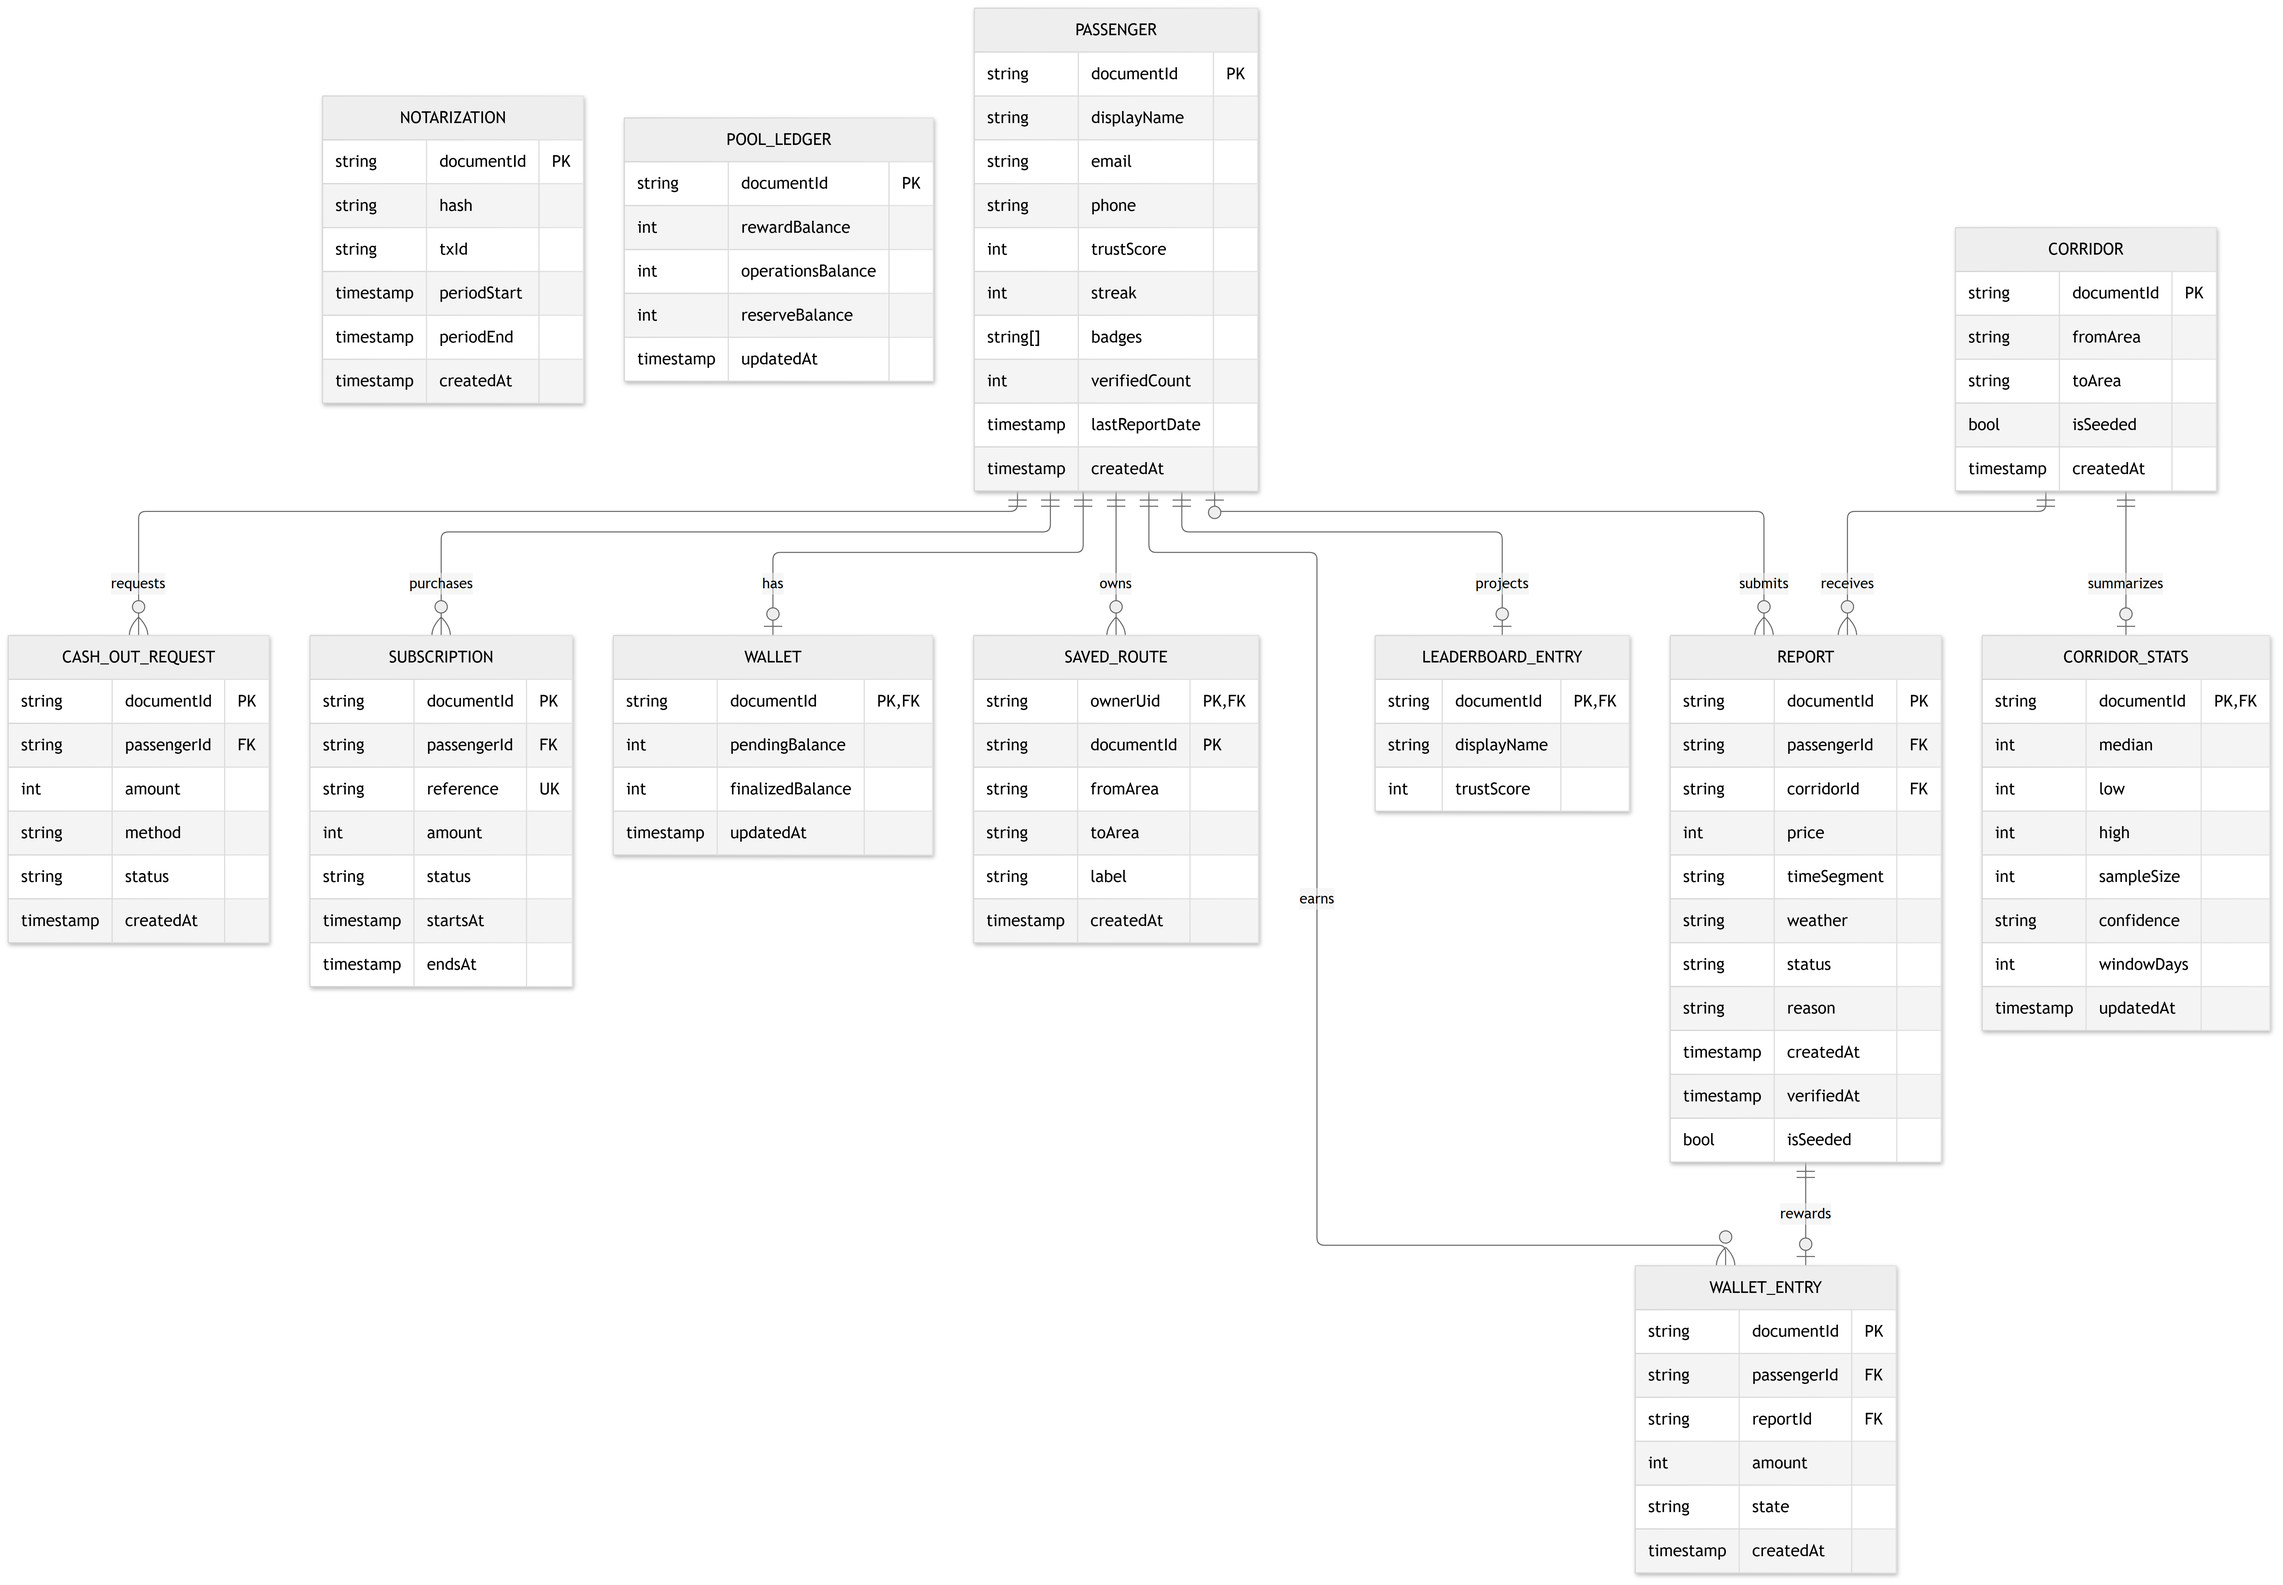
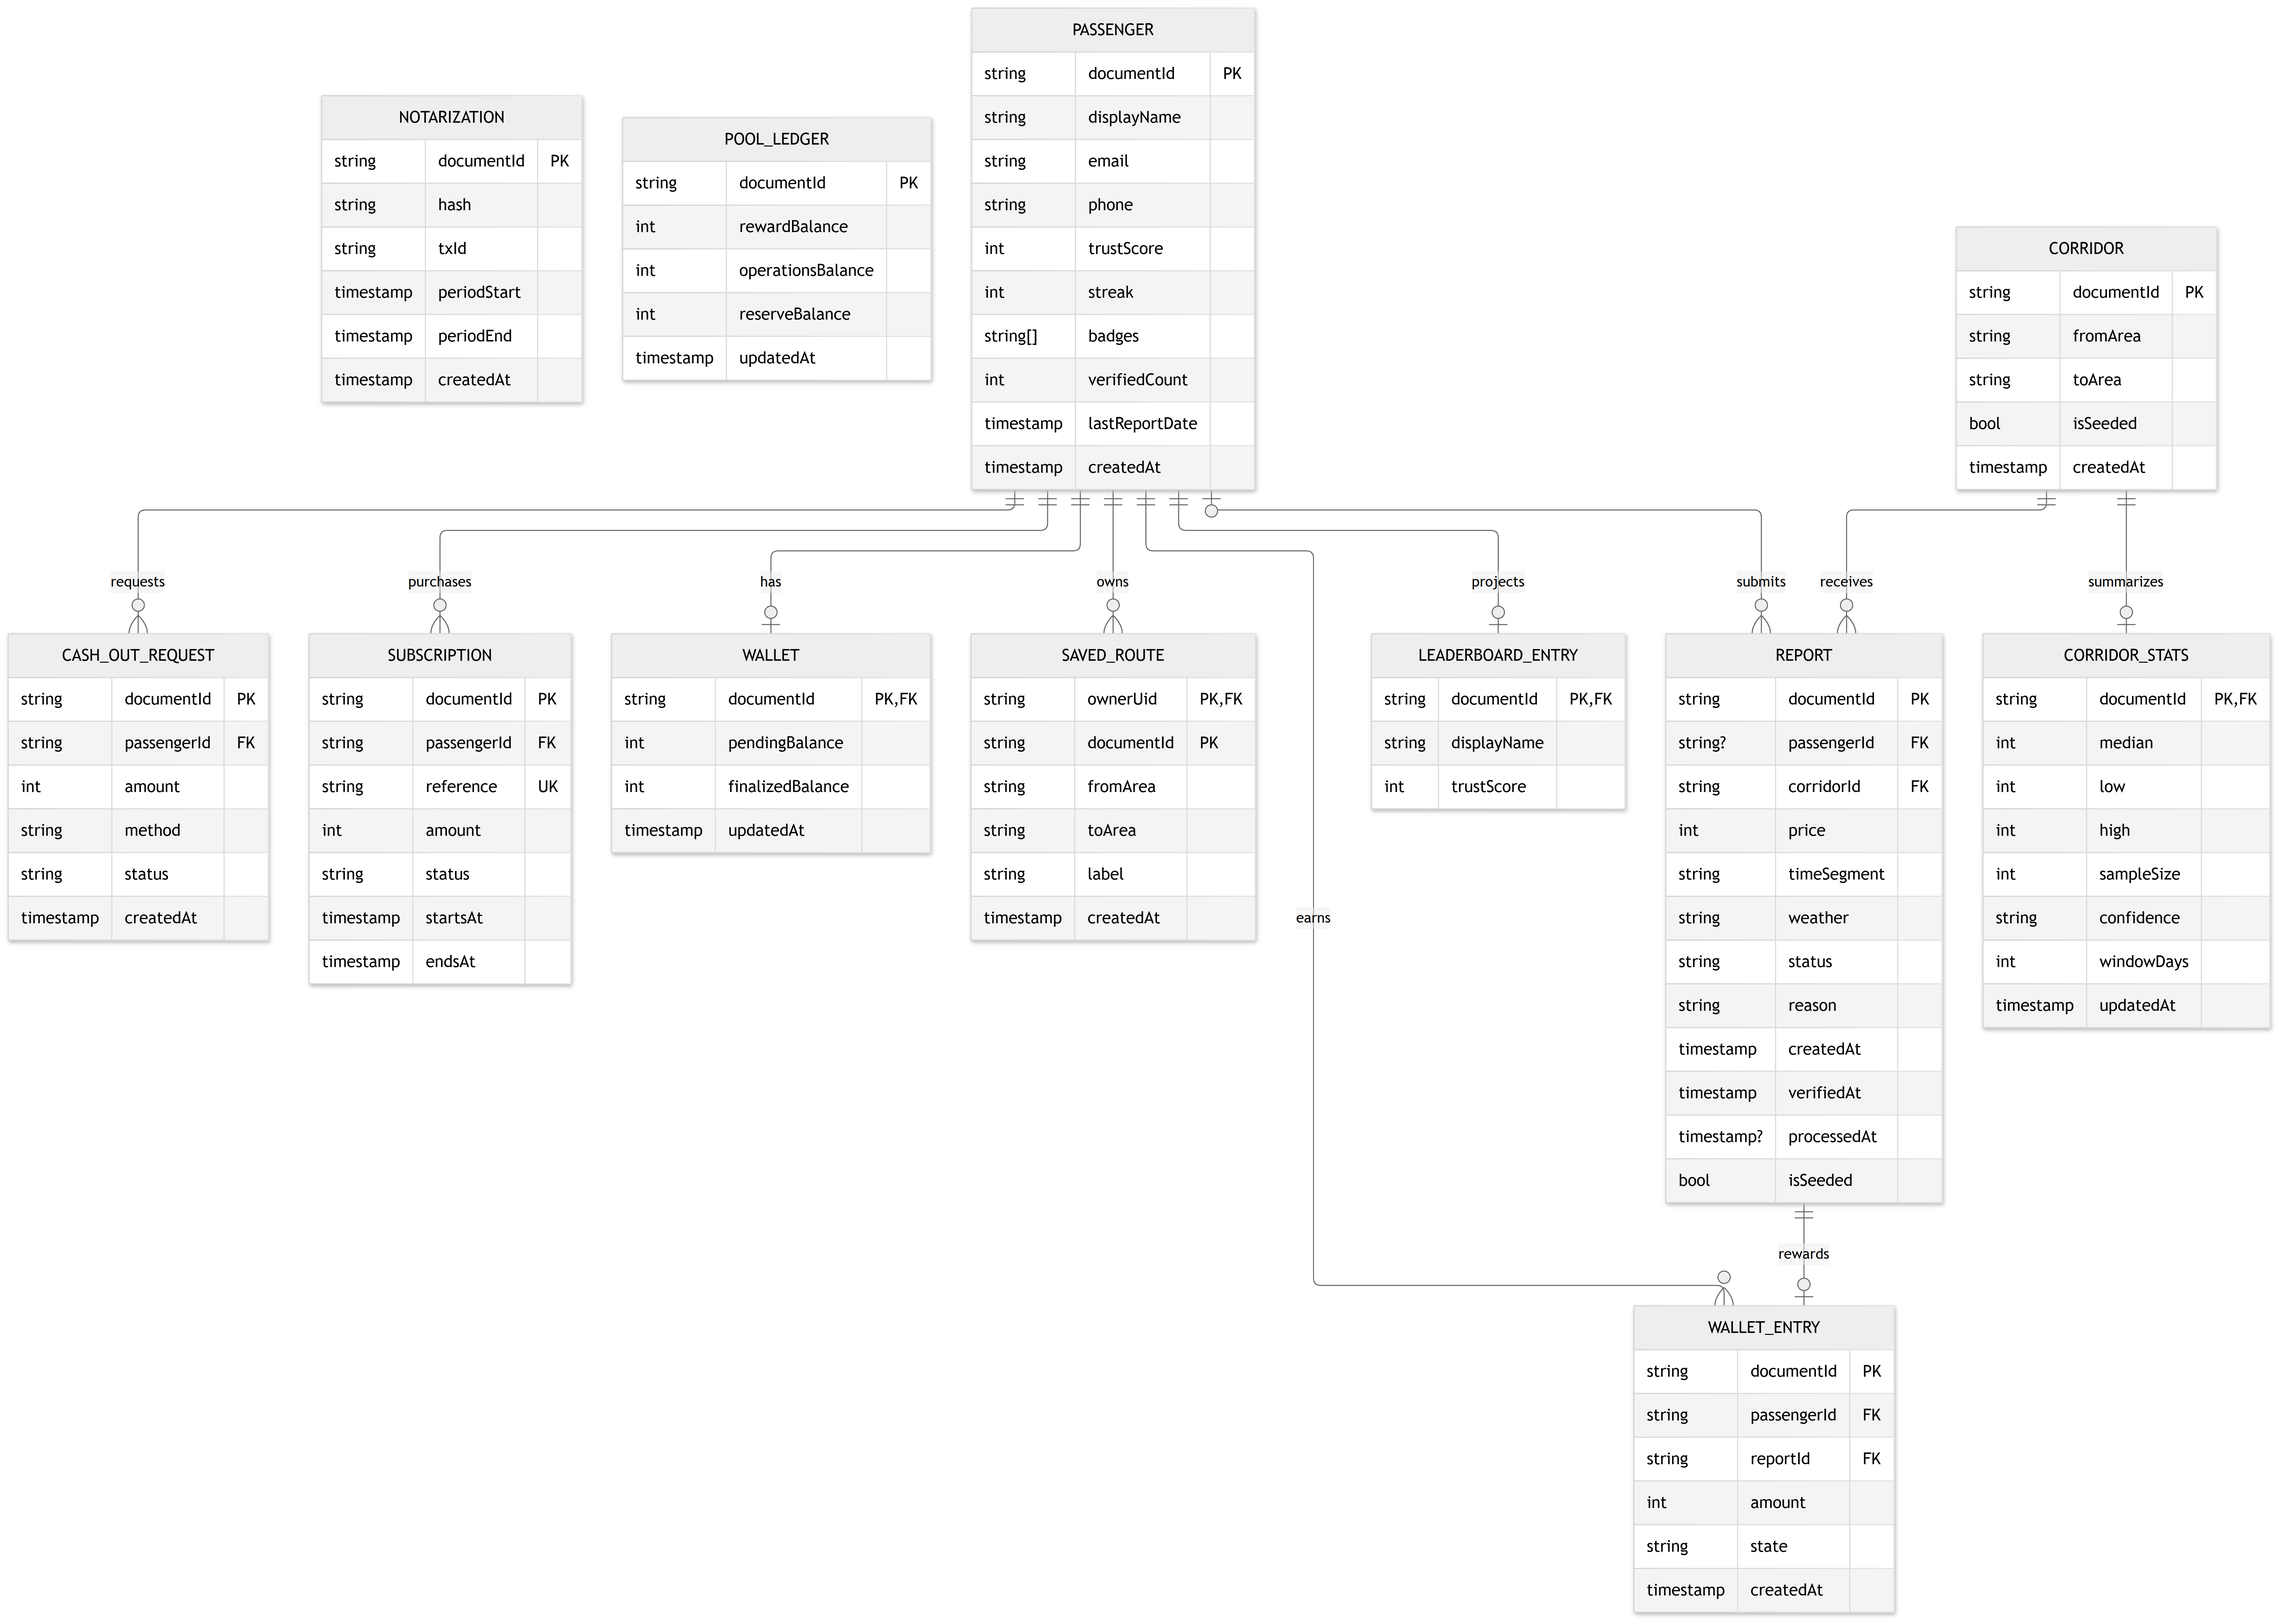
fix: address B1 data model review

diff --git a/app/lib/features/report/domain/entities/report.dart b/app/lib/features/report/domain/entities/report.dart
@@ -3,7 +3,7 @@ import 'report_enums.dart';
 
 class Report {
   final String id;
-  final String passengerId;
+  final String? passengerId;
   final String corridorId;
   final int price;
   final TimeSegment timeSegment;
@@ -12,10 +12,12 @@ class Report {
   final String? reason;
   final DateTime createdAt;
   final DateTime? verifiedAt;
+  final DateTime? processedAt;
+  final bool isSeeded;
 
   const Report({
     required this.id,
-    required this.passengerId,
+    this.passengerId,
     required this.corridorId,
     required this.price,
     required this.timeSegment,
@@ -24,5 +26,7 @@ class Report {
     this.reason,
     required this.createdAt,
     this.verifiedAt,
+    this.processedAt,
+    this.isSeeded = false,
   });
 }

diff --git a/app/lib/features/report/data/fake_report_repository.dart b/app/lib/features/report/data/fake_report_repository.dart
@@ -69,6 +69,8 @@ class FakeReportRepository implements ReportRepository {
         weather: _reports[index].weather,
         status: _reports[index].status,
         createdAt: _reports[index].createdAt,
+        processedAt: _reports[index].processedAt,
+        isSeeded: _reports[index].isSeeded,
       );
       _controller.add(List.unmodifiable(_reports));
     }

diff --git a/docs/erd.md b/docs/erd.md
@@ -52,7 +52,7 @@ erDiagram
     }
     REPORT {
         string documentId PK
-        string passengerId FK
+        string? passengerId FK
         string corridorId FK
         int price
         string timeSegment
@@ -61,6 +61,7 @@ erDiagram
         string reason
         timestamp createdAt
         timestamp verifiedAt
+        timestamp? processedAt
         bool isSeeded
     }
     WALLET {
@@ -117,3 +118,38 @@ erDiagram
 ```
 
 ![ERD](erd.png)
+
+## Firestore mapping
+
+| Entity | Firestore path | Passenger writes | Backend writes | App reads |
+|---|---|---|---|---|
+| Passenger | `passengers/{uid}` | Creates `displayName`, `email`, `createdAt`; updates `displayName` | `trustScore`, `streak`, `badges`, `verifiedCount`, `lastReportDate`; optional `phone` and email synchronization | Owner |
+| Saved route | `passengers/{uid}/savedRoutes/{routeId}` | Creates `fromArea`, `toArea`, `label`, `createdAt`; edits areas/label; deletes own route | None required | Owner |
+| Corridor | `corridors/{corridorId}` | None | `fromArea`, `toArea`, `isSeeded`, `createdAt` | Public |
+| Corridor statistics | `corridorStats/{corridorId}` | None | `median`, `low`, `high`, `sampleSize`, `confidence`, `windowDays`, `updatedAt` | Public |
+| Report | `reports/{reportId}` | Creates `passengerId`, `corridorId`, `price`, `timeSegment`, `weather`, `createdAt`, `status: pending`; edits price or deletes only while pending | `status` changes, `reason`, `verifiedAt`, `processedAt`, `isSeeded`; all seed-report fields | Owner |
+| Wallet | `wallets/{uid}` | None | `pendingBalance`, `finalizedBalance`, `updatedAt` | Owner |
+| Wallet entry | `walletEntries/{reportId}` | None | `passengerId`, `reportId`, `amount`, `state`, `createdAt` | Owner |
+| Cash-out request | `cashOutRequests/{requestId}` | Creates `passengerId`, `amount`, `method`, `createdAt`, `status: pending` | `status` changes | Owner |
+| Subscription | `subscriptions/{reference}` | Creates `passengerId`, `reference`, `amount`, `status: pending` | `status` changes, `startsAt`, `endsAt` | Owner |
+| Leaderboard entry | `leaderboard/{uid}` | None | `displayName`, `trustScore`; E5 keeps the copied name synchronized when a passenger edits it | Public |
+| Pool ledger | `poolLedger/main` | None | `rewardBalance`, `operationsBalance`, `reserveBalance`, `updatedAt` | None |
+| Notarization | `notarizations/{notarizationId}` | None | `hash`, `txId`, `periodStart`, `periodEnd`, `createdAt` | Public |
+
+`documentId` and saved-route `ownerUid` represent document-path keys, not stored fields. Timestamps are Firestore Timestamps. The domain layer represents them as `DateTime` values. The table defines the access contract for B2 security rules.
+
+## Report creation
+
+| Field | Passenger report | Backend seed report |
+|---|---|---|
+| `passengerId` | Authenticated passenger UID | Omitted, not stored as null |
+| `status` | `pending` | `verified` |
+| `isSeeded` | Omitted or `false` | `true` |
+| `processedAt` | Absent or null until the backend sets it | Absent or null until the backend sets it |
+| `verifiedAt` | Absent or null until verification | Verification timestamp |
+
+The `Report` domain entity allows an absent passenger ID for seed reports. Firestore writers must omit that field for seeds. Seed reports are written by the backend and are included in corridor statistics.
+
+## LeaderboardEntry
+
+[`LeaderboardEntry`](../app/lib/features/profile/domain/entities/leaderboard_entry.dart) contains `id` (passenger UID), `displayName`, and `trustScore`. The backend writes the public name/score projection; private passenger fields remain in `passengers/{uid}`.
